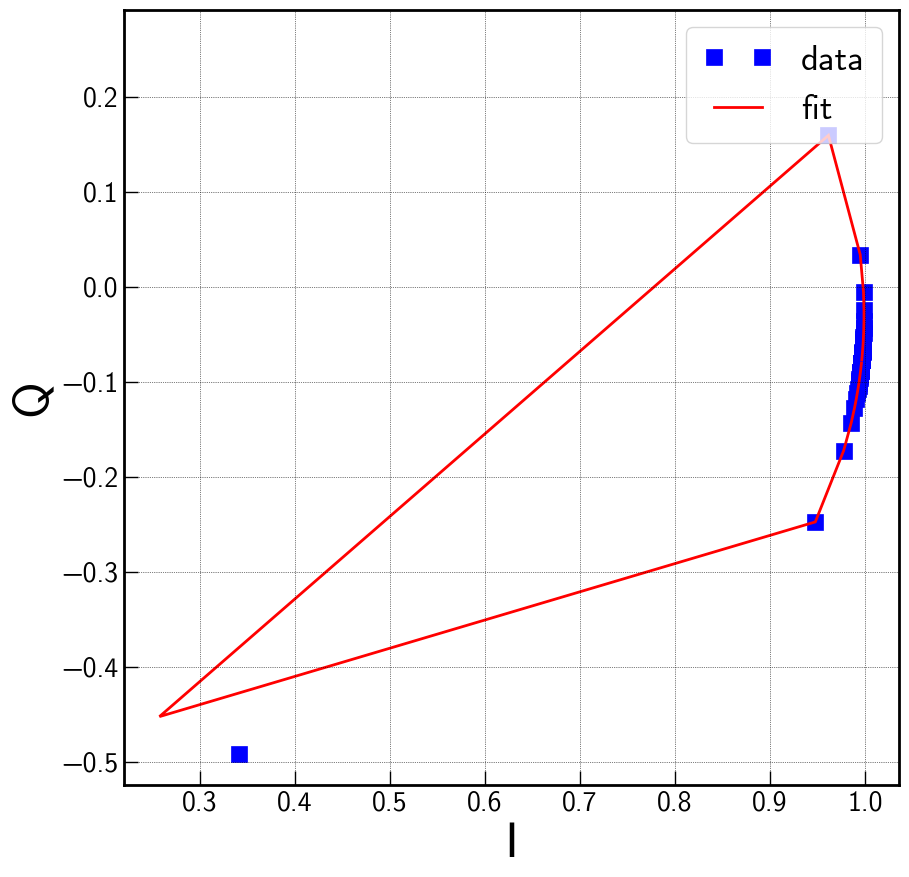
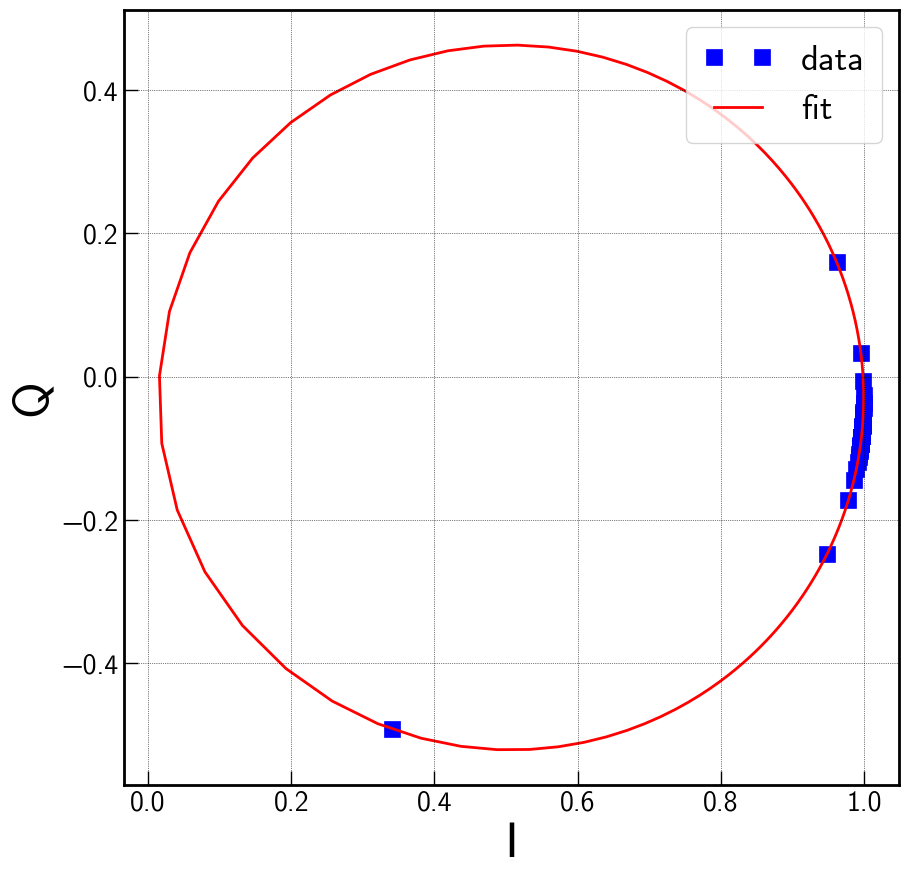
better comparison of the sim to the fits

diff --git a/code/TKIDModule_extractQcsfromfullresosims.py b/code/TKIDModule_extractQcsfromfullresosims.py
@@ -839,6 +839,7 @@ if __name__=="__main__":
             #mask = f < 331.2
             mask = np.ones_like(f, dtype=bool)
             midpt = f.size //2  + 1
+            ffine = np.r_[f[0]:f[-1]:10000j]
             #mask[89:90] = False
             try:
                 f0,A,m,phi,D,Qi,Qr,Qe_re,Qe_im,a,mre,mim,pcov =\
@@ -857,10 +858,6 @@ if __name__=="__main__":
             frs[ires] = f0
             Qcs[ires] = Qc
             phics[ires] = phi_c
-            res_re = mre - re[mask]
-            res_im = mim - im[mask]
-            res_mag = res_re*res_re + res_im*res_im
-            resdbmag = 10*np.log10(res_mag)
             mmag = mre*mre + mim*mim
             mdbmag = 10*np.log10(mmag)
             nmask = mask
@@ -869,10 +866,10 @@ if __name__=="__main__":
                 plt.figure(ires)
                 plt.plot(f[mask],dbmag[mask], 'bs', ms=12,\
                         label='Qr=%d Qi=%d Qc=%d phi_c=%1.3f'%(Qr,Qi,Qc, phi_c))
-                plt.plot(f[mask],mdbmag,'r', label='fit')
+                plt.plot(ffine,mdbmag,'r', label='fit')
                 #plt.plot(finterp, dBmaginterp, 'k')
                 #plt.ylim(top=max(dbmag)+0.5, bottom=min(dbmag)-12.5)
-                plt.xlim(left=f0-1.5, right=f0+1.5)
+                plt.xlim(left=f0-0.5, right=f0+0.5)
                 plt.grid()
                 plt.xlabel('Frequency (MHz)')
                 plt.ylabel('|S21|')

diff --git a/code/reso_fit.py b/code/reso_fit.py
@@ -276,9 +276,11 @@ def do_fit(freq,re,im,plot=False,get_cov=False,verbose=False):
         print("Qi: ",Qi)
         print("a: ", a)
 
-    ymodel = model_wslope(freq,*popt)
-    ymodel_re = ymodel[:nt]
-    ymodel_im = ymodel[nt:]
+    ffine = np.r_[freq[0]:freq[-1]:10000j]
+    nt2 = len(ffine)
+    ymodel = model_wslope(ffine,*popt)
+    ymodel_re = ymodel[:nt2]
+    ymodel_im = ymodel[nt2:]
     freq = freq * 1e-6
 
     if plot:
